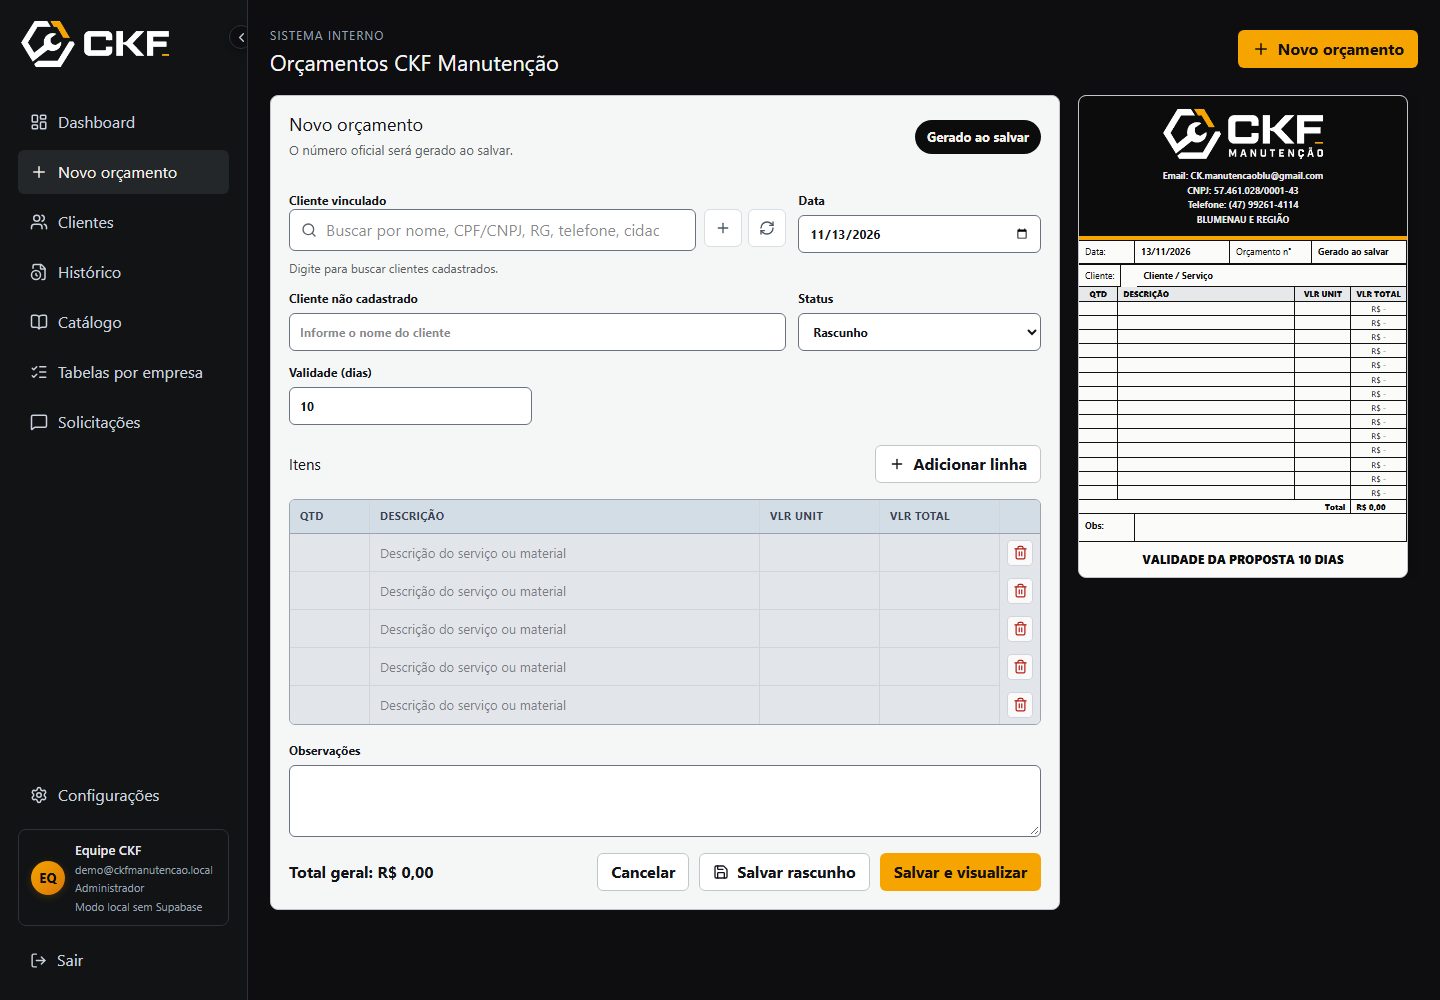
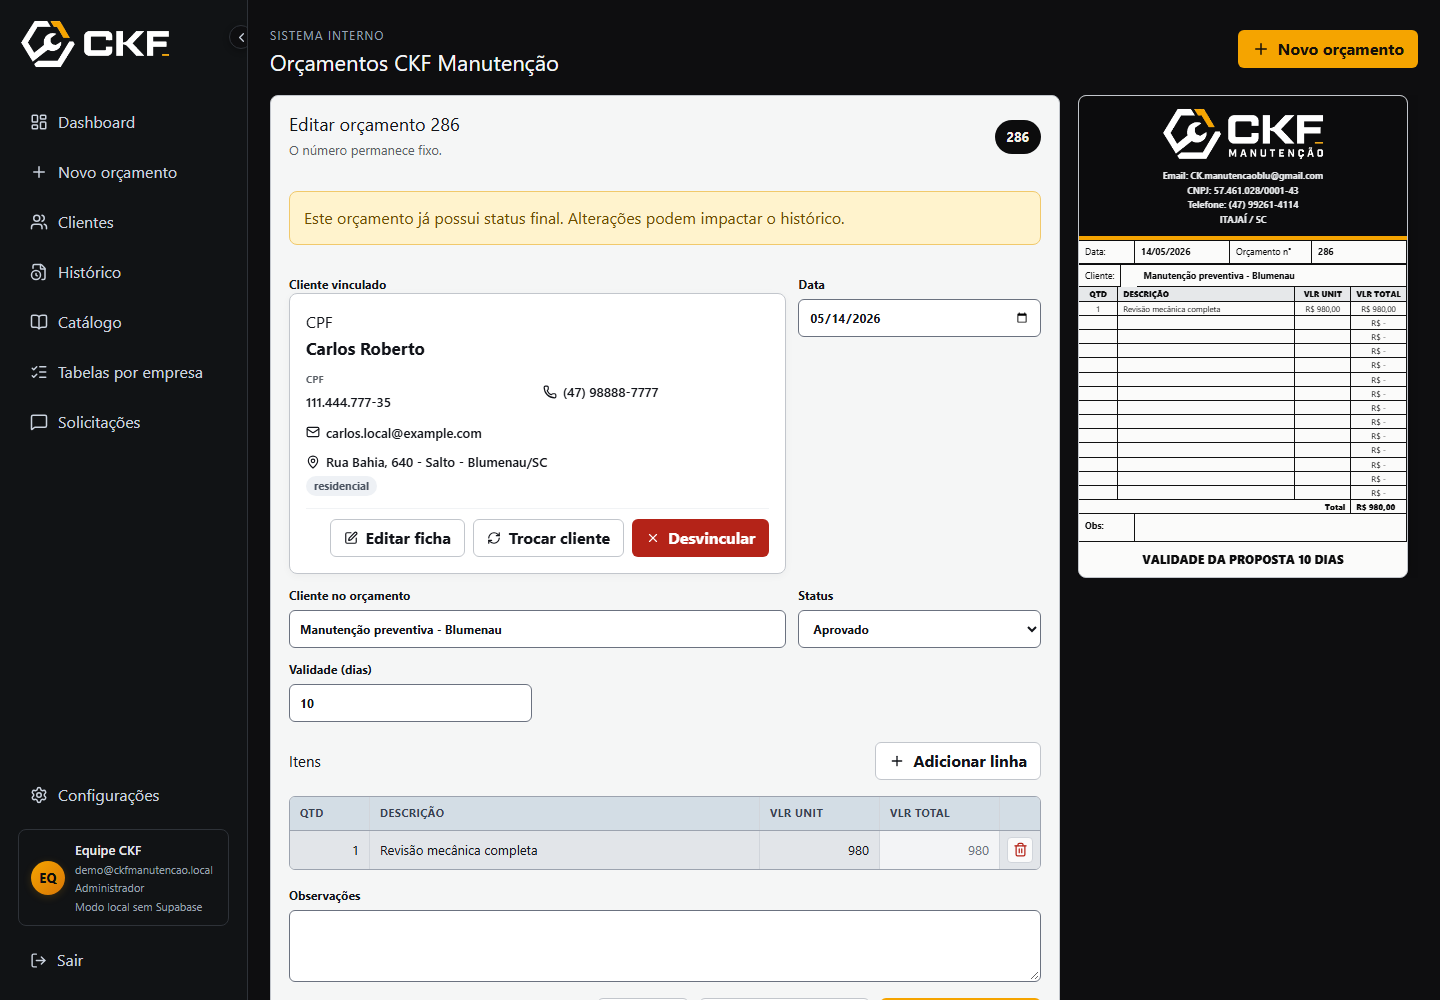
feat: show real CKF quote PDF and current demo editor

diff --git a/src/app/[locale]/projetos/ckf/page.tsx b/src/app/[locale]/projetos/ckf/page.tsx
@@ -25,7 +25,6 @@ export default async function CkfCase({ params }: Params) {
   const systemItems = [
     { id: 'system-dashboard', src: '/assets/projects/ckf/system-preview.png', alt: en ? 'Actual CKF quote dashboard running locally with fictional records' : 'Tela real do painel CKF em demonstração local com registros fictícios', caption: c.systemDashboardCaption, width: 1440, height: 1000, className: '' },
     { id: 'system-editor', src: '/assets/projects/ckf/system-editor.png', alt: en ? 'Actual CKF quote editor with fictional demonstration records' : 'Editor real de orçamento CKF com registros fictícios de demonstração', caption: c.systemEditorCaption, width: 1440, height: 1000, className: '' },
-    { id: 'system-document', src: '/assets/projects/ckf/system-document.png', alt: en ? 'Actual quote details and commercial document with demonstration data' : 'Consulta real de orçamento e documento comercial com dados demonstrativos', caption: c.systemDocumentCaption, width: 1440, height: 1000, className: '' },
     { id: 'system-mobile', src: '/assets/projects/ckf/system-mobile.png', alt: en ? 'Actual CKF dashboard on mobile with demonstration records' : 'Painel real CKF no celular com registros de demonstração', caption: c.systemMobileCaption, width: 390, height: 844, className: galleryStyles.mobileShot },
     { id: 'system-pdf', src: '/assets/projects/ckf/quote-pdf.png', alt: en ? 'Example quote PDF generated by the CKF system' : 'Exemplo de orçamento em PDF gerado pelo sistema CKF', caption: en ? 'Example quote PDF · prepared from fictional demonstration data.' : 'Exemplo de orçamento em PDF · preparado com dados fictícios de demonstração.', width: 1240, height: 1754, className: '' },
   ];

diff --git a/docs/redesign-ruon/planejamento-projetos/ckf-media-provenance.md b/docs/redesign-ruon/planejamento-projetos/ckf-media-provenance.md
@@ -43,3 +43,16 @@ Uma tentativa somente leitura em `https://ckf-manutencao-orcamentos.vercel.app/`
 - As capturas do site podem ser usadas como evidência visual da entrega pública da CKF no portfólio; preservar a indicação de fonte/estado temporal.
 - As capturas do sistema devem manter a legenda “interface real em demonstração local / dados fictícios”. A ilustração conceitual anterior permanece apenas no histórico do Git e não é mais o asset atual.
 - Não reutilizar os assets como prova de contrato, pagamento, autoria exclusiva ou acesso aos dados internos.
+
+## C08 — evidência real da rotina operacional
+
+- Fonte fixada: `Kauerc10/ckf-manutencao-orcamentos`, branch funcional `feat/catalogo-tabelas-leads`, SHA `f1797812433928c55d0cb3d600788258c504b1ca`.
+- O harness local usou o código original do CKF com modo demo nativo sem Supabase, em `127.0.0.1:3071`. Não houve acesso a produção, criação de orçamento, alteração, envio ou autenticação externa.
+- `public/assets/projects/ckf/system-editor.png` — 1440×1000. Captura real da rota de edição do orçamento demo nº 286, mostrando cliente fictício, item “Revisão mecânica completa”, quantidade 1, valor unitário/total R$ 980,00 e prévia documental. A captura foi feita sem salvar alterações.
+- `public/assets/projects/ckf/example-quote.pdf` — PDF baixado pelo botão nativo “Baixar PDF” na linha do orçamento demo nº 286.
+- `public/assets/projects/ckf/quote-pdf.png` — 1240×1754, renderização da primeira página do PDF baixado; não é redesenho nem mock.
+- A demo local identifica a sessão como `Modo local sem Supabase`; os dados pertencem ao fixture versionado do modo demo (`demo-2`/nº 286), não a registros reais acessados durante a coleta. Ainda assim, a narrativa deve chamá-los de **fixture demo** e não de cliente real.
+- Antes da segunda captura, a região foi alterada exclusivamente pela tela local `Configurações` para `ITAJAÍ / SC`, conforme a direção atual do case; nenhum código de produto ou backend foi modificado. Os demais dados empresariais permanecem os defaults do fixture demo.
+- O servidor local foi encerrado após a captura. A captura anterior `system-document.png` permanece como mídia existente; a nova dupla PDF/editor é a evidência preferencial para o capítulo “itens → orçamento → PDF”.
+
+Curadoria C08: a galeria operacional usa quatro capturas atuais — dashboard, editor, celular e PDF. A consulta `system-document.png` anterior fica preservada no histórico/arquivos, mas sai da seleção atual por carregar a região padrão antiga. O editor e o PDF C08 usam a região local de demonstração `ITAJAÍ / SC`; o endereço fictício do atendimento em Blumenau não é a sede da empresa.
